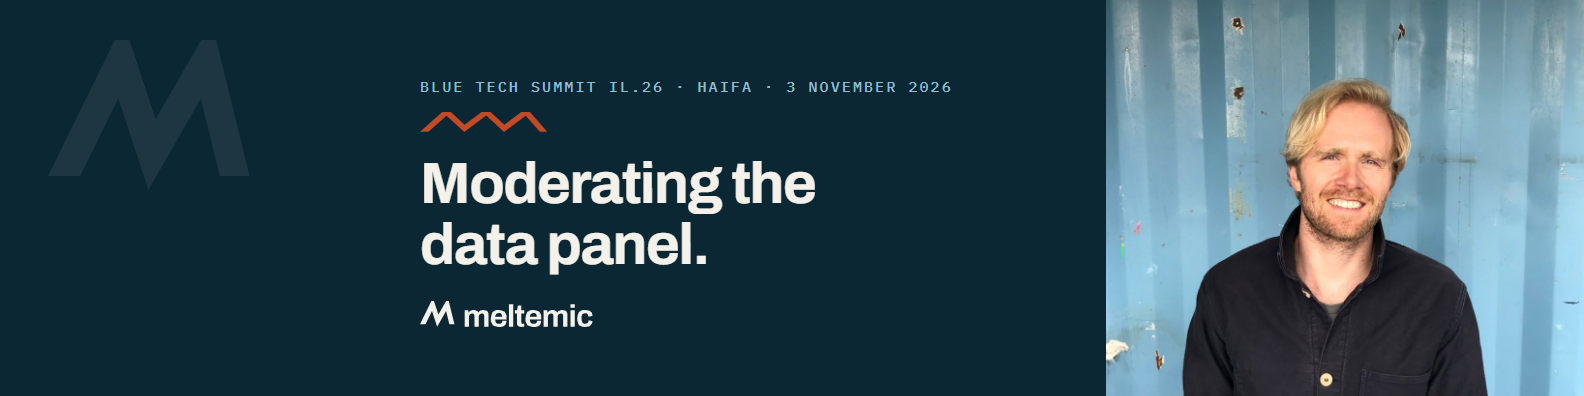
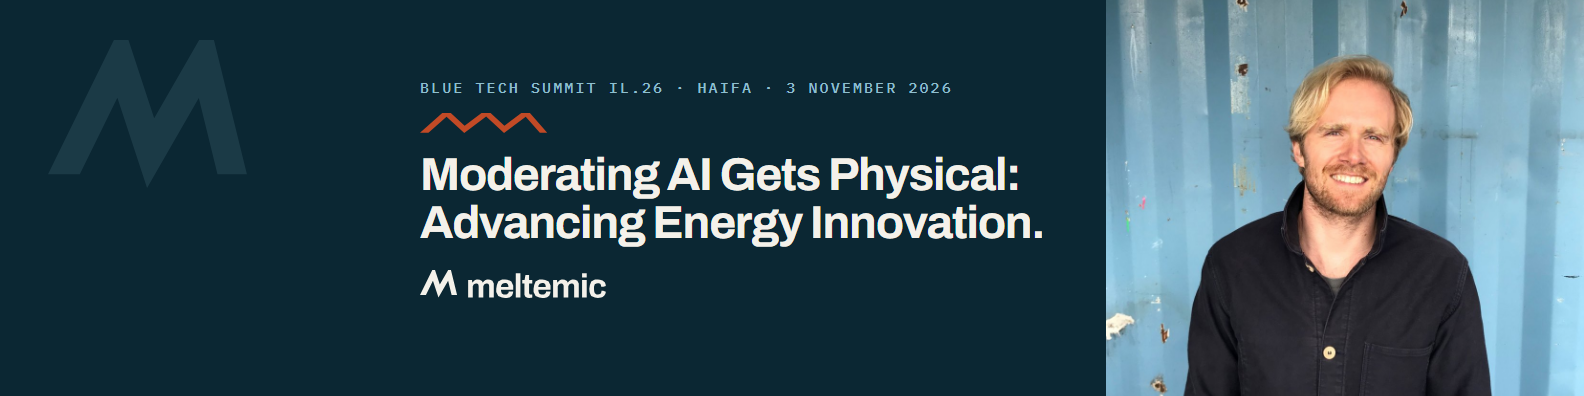
Launch /blue for AI Gets Physical panel, link from homepage
Retitle the event page, share card and LinkedIn banner to "AI Gets
Physical: Advancing Energy Innovation", set the 10:00-10:30 slot, align
the questions and panelist lines with the 29 Oct running order, remove
noindex, and add a link from the homepage hero.

diff --git a/blue/index.html b/blue/index.html
@@ -6,12 +6,8 @@
     <meta name="viewport" content="width=device-width, initial-scale=1.0">
     <title>Blue Tech Summit IL.26 – Peter Thorlacius Bondrop | Meltemic</title>
     <meta name="description"
-        content="Peter Thorlacius Bondrop is moderating the data panel at Blue Tech Summit IL.26, Haifa, 3 November 2026. Offshore wind, industrial data and the questions worth asking.">
+        content="Peter Thorlacius Bondrop is moderating the opening panel at Blue Tech Summit IL.26, AI Gets Physical: Advancing Energy Innovation, Haifa, 3 November 2026. Where physical AI pays, why power is the bottleneck, and what makes it bankable.">
     <link rel="canonical" href="https://meltemic.com/blue/">
-
-    <!-- PRE-LAUNCH: remove this line, and add a link from the homepage, once
-         the panel title, fellow panelists and date are confirmed. -->
-    <meta name="robots" content="noindex, nofollow">
 
     <!-- Identity -->
     <link rel="icon" href="../brand/favicon.svg?v=2" type="image/svg+xml">
@@ -22,11 +18,11 @@
 
     <meta property="og:title" content="Blue Tech Summit IL.26 – Peter Thorlacius Bondrop">
     <meta property="og:description"
-        content="Moderating the data panel at Blue Tech Summit IL.26, Haifa, 3 November 2026.">
-    <meta property="og:image" content="https://meltemic.com/assets/og-blue.png">
+        content="Moderating the opening panel, AI Gets Physical: Advancing Energy Innovation, at Blue Tech Summit IL.26, Haifa, 3 November 2026.">
+    <meta property="og:image" content="https://meltemic.com/assets/og-blue.png?v=3">
     <meta property="og:image:width" content="1200">
     <meta property="og:image:height" content="630">
-    <meta property="og:image:alt" content="Peter Thorlacius Bondrop – moderating the data panel at Blue Tech Summit IL.26, Haifa, 3 November 2026">
+    <meta property="og:image:alt" content="Peter Thorlacius Bondrop – moderating AI Gets Physical: Advancing Energy Innovation at Blue Tech Summit IL.26, Haifa, 3 November 2026">
     <meta property="og:url" content="https://meltemic.com/blue/">
     <meta property="og:type" content="website">
     <meta name="twitter:card" content="summary_large_image">
@@ -61,10 +57,10 @@
             <div class="container hero-grid">
                 <div>
                     <span class="eyebrow reveal">Blue Tech Summit IL.26 · Haifa</span>
-                    <h1 class="reveal">Moderating the data panel at Blue Tech Summit IL.26.</h1>
-                    <p class="lede reveal">Ocean data is collected in enormous volume and trusted in very
-                        little of it. That gap – between what the sensors say and what anyone will act on
-                        – is the panel.</p>
+                    <h1 class="reveal">Moderating the AI Gets Physical panel at Blue Tech Summit IL.26.</h1>
+                    <p class="lede reveal">Everyone has heard that AI will change energy. The more useful
+                        fact runs the other way: power, cooling and steel are now what limits AI. The
+                        opening panel puts the people building physical AI next to the people funding it.</p>
                     <div class="hero-actions reveal">
                         <a href="https://cal.com/meltemic/20min" target="_blank" rel="noopener" data-goatcounter-click="blue-hero-book" class="btn btn-primary">Book
                             a 20-minute call</a>
@@ -84,7 +80,7 @@
                 <dl class="facts reveal">
                     <div>
                         <dt>When</dt>
-                        <dd>3 November 2026<br>09:00 – 15:00</dd>
+                        <dd>3 November 2026<br>10:00–10:30</dd>
                     </div>
                     <div>
                         <dt>Where</dt>
@@ -92,14 +88,53 @@
                     </div>
                     <div>
                         <dt>Role</dt>
-                        <dd>Moderator<br>Data panel</dd>
+                        <dd>Moderator<br>Opening panel, main hall</dd>
                     </div>
                     <div>
                         <dt>Panel</dt>
-                        <!-- TODO: exact panel title and fellow panelists, linked. -->
-                        <dd>Title and fellow panelists<br>to be announced</dd>
+                        <dd>AI Gets Physical:<br>Advancing Energy Innovation</dd>
                     </div>
                 </dl>
+            </div>
+        </section>
+
+        <!-- Line-up and titles checked against the summit page (18 Oct) and the
+             prep calls (28–29 Oct 2026). -->
+        <section id="panel">
+            <div class="container">
+                <div class="section-head reveal">
+                    <span class="eyebrow">On stage</span>
+                    <h2>Two companies building it, two funds backing it.</h2>
+                    <p>Physical AI for plants and data centres, power that does not wait for the grid,
+                        and the capital that has to fund both.</p>
+                </div>
+                <div class="grid">
+                    <div class="card reveal">
+                        <span class="badge">Physical AI</span>
+                        <h3>Yochai Pagi</h3>
+                        <p>Co-founder and CEO, <a href="https://psistar.ai/" target="_blank" rel="noopener">Psistar</a>.
+                            Physics-informed AI that learns how a power plant or data centre physically
+                            behaves, so critical infrastructure can run itself, and better.</p>
+                    </div>
+                    <div class="card reveal">
+                        <span class="badge">On-site power</span>
+                        <h3>Eyal Shalom</h3>
+                        <p>Co-founder and CEO, Nugen. On-site power from solid-state hydrogen cartridges
+                            for data centres, ports and water facilities, where the grid falls short.</p>
+                    </div>
+                    <div class="card reveal">
+                        <span class="badge">Venture capital</span>
+                        <h3>Tali Rosenwaks</h3>
+                        <p>Partner, Next Gear Ventures. Deep tech for mobility and energy, and a former CEO
+                            of a physical AI start-up.</p>
+                    </div>
+                    <div class="card reveal">
+                        <span class="badge">Venture capital</span>
+                        <h3>Ori Amsalem</h3>
+                        <p>Partner, Deep33, leading advanced energy at a fund built on the idea that AI is
+                            bottlenecked in the physical world.</p>
+                    </div>
+                </div>
             </div>
         </section>
 
@@ -107,13 +142,13 @@
             <div class="container">
                 <div class="section-head reveal">
                     <span class="eyebrow">Why this panel, why me</span>
-                    <h2>I've run the assets, invested in the vessels and sold the data.</h2>
-                    <p>Three vantage points on the same problem – from a bank, an offshore operator and an
-                        industrial-data company.</p>
+                    <h2>I've run the energy assets, sold to the plants and worked on the deals.</h2>
+                    <p>I have been the operator who has to trust the model, the vendor asking to be
+                        trusted, and the banker reading the numbers.</p>
                 </div>
                 <div class="grid grid--3">
                     <div class="card reveal">
-                        <span class="badge">Offshore</span>
+                        <span class="badge">Energy</span>
                         <h3>Ørsted</h3>
                         <p>Head of a 900 MW offshore wind portfolio. Before that, principal at Ørsted
                             Ventures – deals in offshore wind analytics, autonomous vessels and offshore
@@ -123,8 +158,8 @@
                         <span class="badge">Industrial data</span>
                         <h3>Aperio</h3>
                         <p>Five years as first commercial hire, then VP Commercial, Product and Customer
-                            Success, selling operational time-series data integrity to oil &amp; gas, power
-                            generation and chemicals.</p>
+                            Success, selling operational data integrity to power plants, refineries and
+                            chemicals – the data an AI would have to act on.</p>
                     </div>
                     <div class="card reveal">
                         <span class="badge">Capital</span>
@@ -146,17 +181,19 @@
                         <h2>What I'll be asking.</h2>
                     </div>
                     <div class="reveal">
-                        <!-- DRAFT, written from Peter's background. Peter rewrites in his own words
-                             before this page is indexed or linked. -->
+                        <!-- Condensed from the running order sent to the panelists, 29 Oct 2026. -->
                         <ol class="questions">
-                            <li>Who owns the data from an offshore asset – the operator, the OEM, the
-                                sensor vendor – and who is actually allowed to act on it?</li>
-                            <li>How much ocean data is collected and never trusted? For industrial time
-                                series the honest answer was "most of it." Is the sea any different?</li>
-                            <li>What does a port authority need from a data start-up: a dashboard, or a
-                                decision it can defend?</li>
-                            <li>Where is the capital going – into sensors, or into making the data from
-                                existing sensors worth believing?</li>
+                            <li>Plants already run model predictive control and analytics. What can
+                                physical AI do that those could not – and where does it show up in the
+                                numbers?</li>
+                            <li>Where is the bottleneck that actually pays: new energy technology, or
+                                unblocking the infrastructure we already have?</li>
+                            <li>Data centres, ports and water facilities need power the grid cannot
+                                deliver in time. Beyond the cost per kilowatt-hour, how should operators
+                                weigh time to power, reliability and the cost of delay?</li>
+                            <li>Physical AI mixes software, hardware and steel. How do you tell a
+                                venture-scale company from an infrastructure business – and when will a
+                                lender put AI-driven value in the project model?</li>
                         </ol>
                     </div>
                 </div>
@@ -166,7 +203,7 @@
         <section id="talk">
             <div class="container">
                 <div class="work-cta reveal">
-                    <p>At the summit? Working on any of the above?</p>
+                    <p>At the summit? Building, running or funding any of the above?</p>
                     <a href="https://cal.com/meltemic/20min" target="_blank" rel="noopener" data-goatcounter-click="blue-bottom-book" class="btn btn-primary">Book
                         a 20-minute call</a>
                 </div>

diff --git a/index.html b/index.html
@@ -102,6 +102,7 @@
                         <a href="#labs" class="btn btn-ghost">See the work</a>
                     </div>
                     <p class="hero-meta reveal">Direct with the founder · No sales team · Tel Aviv</p>
+                    <p class="hero-meta hero-event reveal"><a href="/blue/" data-goatcounter-click="home-hero-blue">3 November · Moderating AI Gets Physical at Blue Tech Summit IL.26 →</a></p>
                 </div>
                 <div class="hero-mark" aria-hidden="true"><svg aria-hidden="true" xmlns="http://www.w3.org/2000/svg" viewBox="0 0 132.37 98.49"><path fill="currentColor" d="M21.17 89.29L0 89.29L43.86 0L53.55 0L70.67 52.09L100.59 0L110.43 0L132.37 89.29L112.8 89.29L100.35 38.58L65.93 98.49L46.17 38.39Z"/></svg></div>
             </div>

diff --git a/style.css b/style.css
@@ -573,6 +573,20 @@ footer {
     color: var(--slate);
 }
 
+.hero-meta.hero-event {
+    margin-top: 0.75rem;
+}
+
+.hero-event a {
+    color: var(--clay);
+    text-decoration-thickness: 1px;
+    text-underline-offset: 3px;
+}
+
+.hero-event a:hover {
+    color: var(--clay-deep);
+}
+
 /* ---------- Founder identity ---------- */
 .founder-id {
     display: flex;
